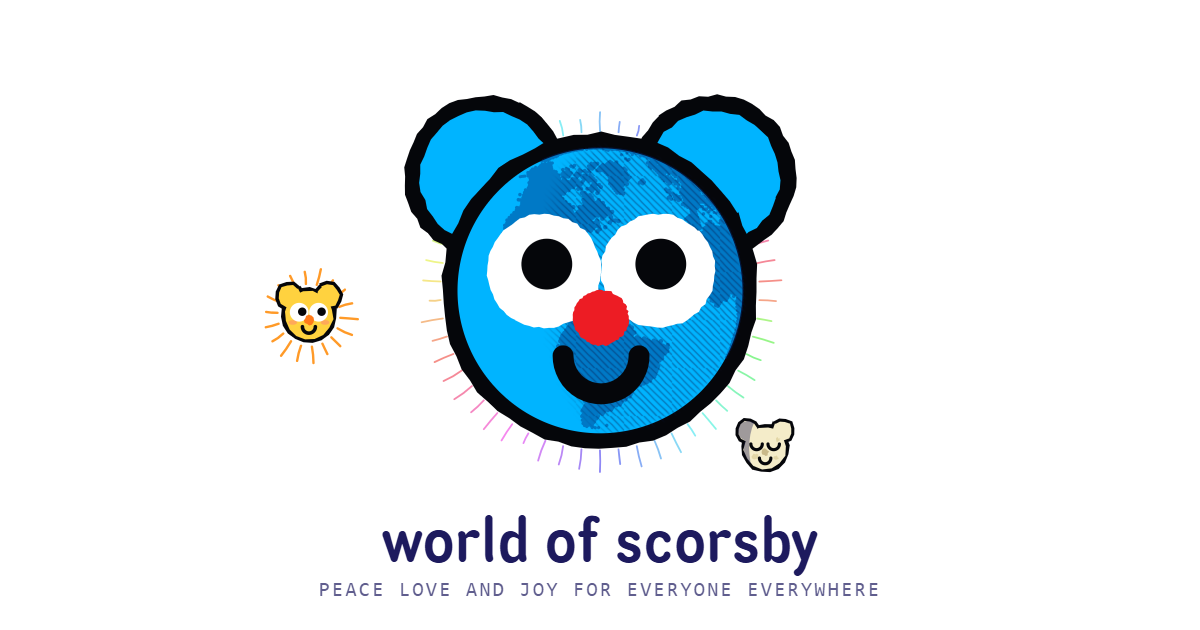
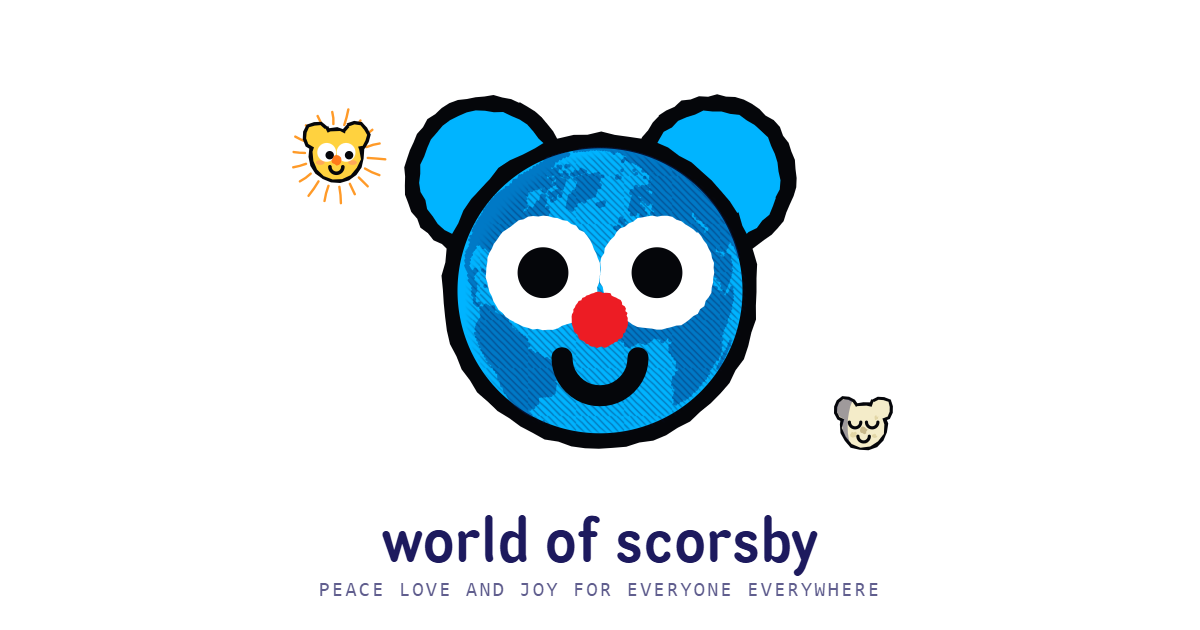
share picture: sun top left, moon bottom right, no halo, face straight ahead, the smile in the atlantic (a ?card pose for the planet)

diff --git a/heartstar/heartstar.js b/heartstar/heartstar.js
@@ -11,6 +11,8 @@
   const smooth = (a, b, x) => { const t = clamp((x - a) / (b - a), 0, 1); return t * t * (3 - 2 * t); };
   const hash = (n) => { const x = Math.sin(n * 127.1 + 311.7) * 43758.5453; return x - Math.floor(x); };
   const params = new URLSearchParams(location.search);
+  // ?card: posing for the share picture (tools/sharecard.html): still, looking straight out, no halo, sun and moon set just so
+  const CARD = params.has('card');
   const store = { get(k) { try { return localStorage.getItem(k); } catch { return null; } }, set(k, v) { try { localStorage.setItem(k, v); } catch {} } };
 
   // ------------------------------------------------------------------ colors of a scorsby
@@ -882,6 +884,7 @@
     else if (crowd() <= 1) { tx = Math.sin(now / 2300) * 0.8; ty = Math.cos(now / 3100) * 0.5; } // alone, it looks around for someone
     else { tx = Math.sin(now / 3700) * 0.5; ty = Math.cos(now / 5100) * 0.3; }
     if (calmMood) { tx = 0; ty = 0; } // while breathing or singing, the face rests in the middle, looking straight out
+    if (CARD) { tx = 0; ty = 0; }
     pf.lx += (tx - pf.lx) * 0.08; pf.ly += (ty - pf.ly) * 0.08;
 
     // the world sings along: when two or more scorsbys sing, it hums the note between them
@@ -1407,6 +1410,7 @@
   }
 
   function renderRays(now, hue, storm) {
+    if (CARD) return;
     const n = 54, breathe = 1 + 0.02 * Math.sin((now / 8000) * TAU);
     const love = smooth(0, 1, (loveWash - now) / 1500);
     const on = clamp((now - intro.wake) / 250, 0, 1); // no halo while the world sleeps
@@ -2226,6 +2230,7 @@
 
   // place sunsby or moonsby off in the direction of the real sun or moon, gliding as the world turns
   function placeOrb(st, v, avoid) {
+    if (CARD) { const sd = st === sunAt ? -1 : 1; Object.assign(st, { x: CX + sd * R * 1.85, y: CY + sd * R * 0.95, ok: true }); return [st.x, st.y]; }
     const [vx, vy] = viewOf(v);
     const l = Math.hypot(vx, vy);
     // when it points almost straight at you (or away), its direction on screen means little: lean on the old one
@@ -3795,6 +3800,7 @@
       if (!pointer.down && now > view.idleAt) view.auto = true;
       if (view.auto) view.vlon += (-0.004 * dt / Math.max(1, zoom.v) - view.vlon) * 0.02;
       else if (!pointer.down) view.vlon *= 0.94;
+      if (CARD) { view.lon = +(params.get('lon') ?? -20); view.lat = +(params.get('lat') ?? 28); view.vlon = 0; view.auto = false; }
       if (!pointer.down) { view.lon += view.vlon; setView(); }
       if (!intro.woke && now >= intro.wake) {
         intro.woke = true;

diff --git a/tools/sharecard.html b/tools/sharecard.html
@@ -20,7 +20,7 @@
   </style>
 </head>
 <body>
-  <iframe id="w" src="/?nointro&theme=day&debug&hearth=ws://127.0.0.1:1/x"></iframe>
+  <iframe id="w" src="/?card&nointro&theme=day&debug&hearth=ws://127.0.0.1:1/x"></iframe>
   <div class="name">world of scorsby<small>peace love and joy for everyone everywhere</small></div>
   <script>
     // only the world and its sky: no buttons, words or corners

diff --git a/index.html b/index.html
@@ -136,7 +136,7 @@
   <script src="heartstar/awareness.js?v=3"></script>
   <script src="heartstar/land.js?v=4"></script>
   <script src="heartstar/quotes.js" defer></script>
-  <script src="heartstar/heartstar.js?v=151"></script>
+  <script src="heartstar/heartstar.js?v=152"></script>
   <script src="/subscribe.js?v=5" defer></script>
 </body>
 </html>
